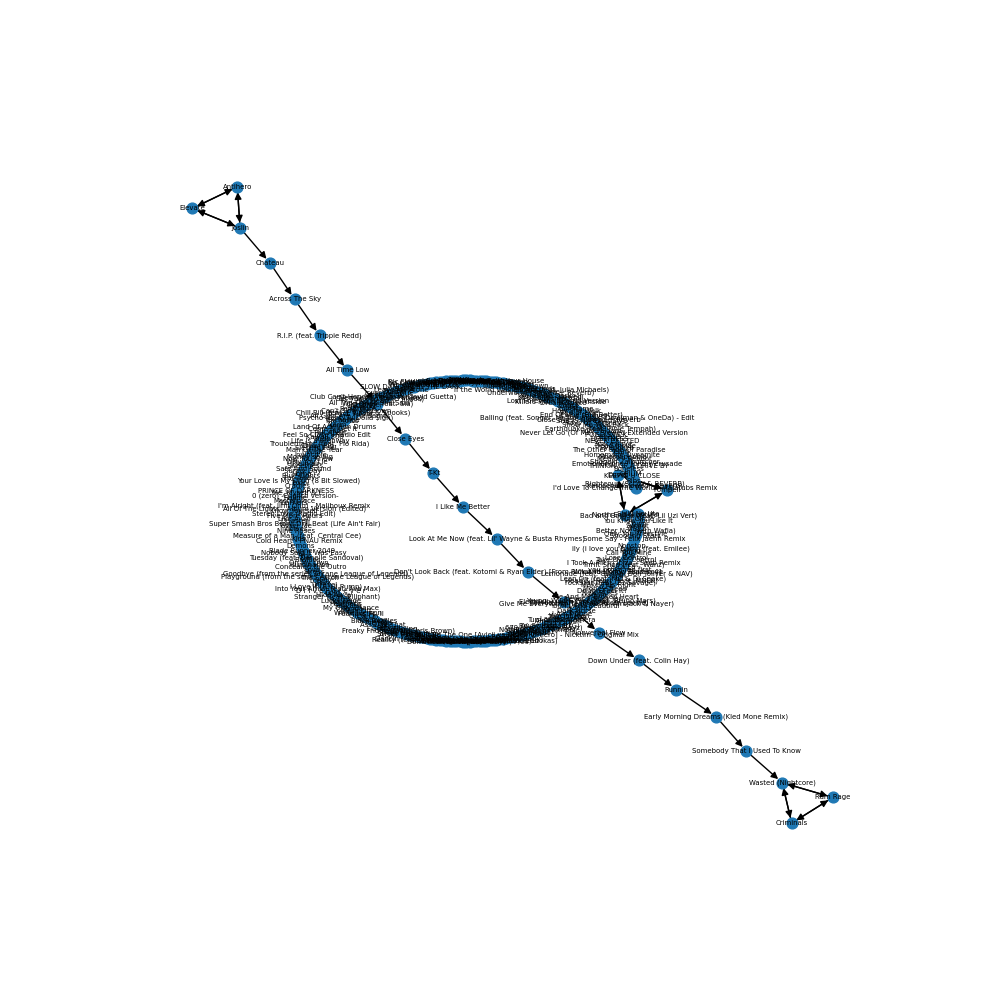
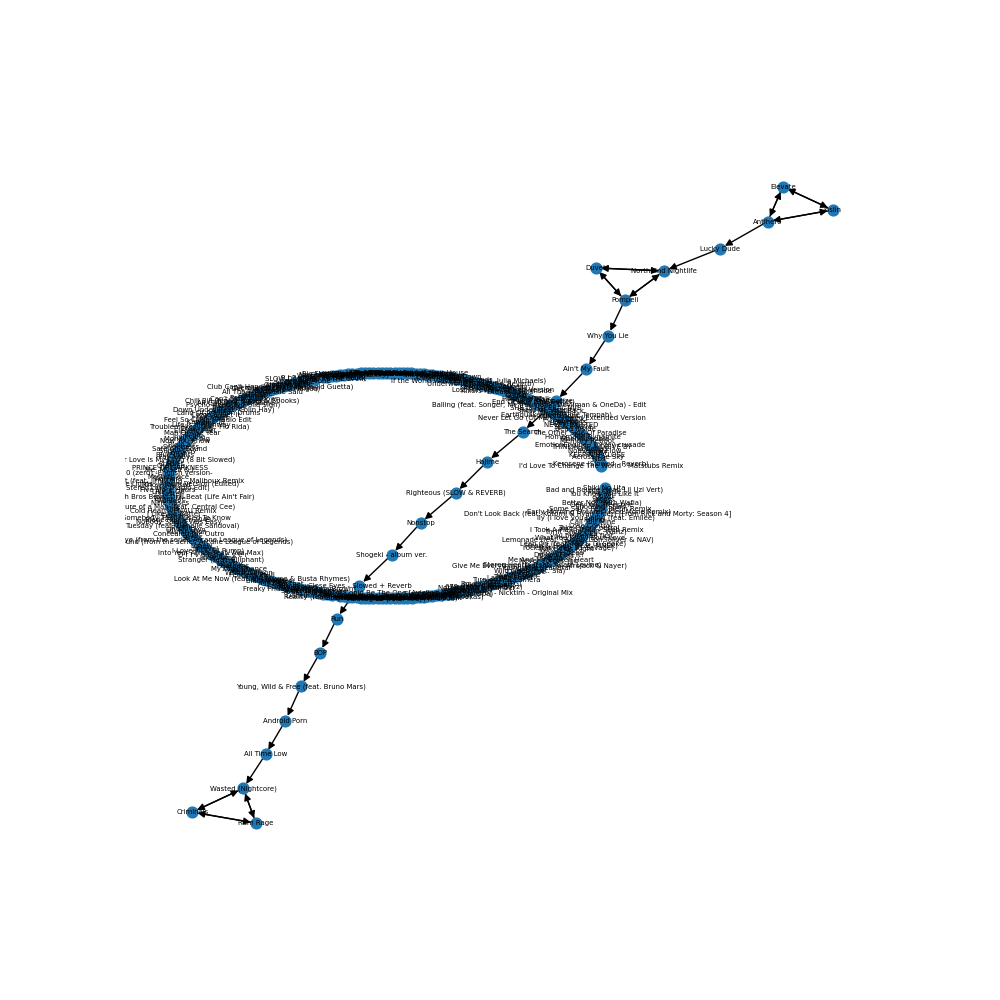
Setting the model and image into firebase

diff --git a/mood-shifter-backend/index.js b/mood-shifter-backend/index.js
@@ -71,9 +71,19 @@ app.post('/getConfigPlaylist', async (req, res) => {
       method: "POST"
     })
     let response = await modelResp.json();
-    console.log("MODEL RESP, MOOD2MOOD: ", response.queue)
-    console.log("MODEL RESP, model: ", response.model)
-    res.send(response)
+    // console.log("MODEL RESP, MOOD2MOOD: ", response.queue)
+    // console.log("MODEL RESP, model: ", response.model)
+
+    // Set the model and the image to firebase now
+    await setDoc(docRef, {
+      "model": response.model,
+      "graphImage": response.graphImage
+    }, { merge: true })
+    .then(() => {
+      console.log("Firebase now has the latest model as well as the graph image.")
+    })
+    
+    res.send(response.queue)
   }
 })
 

diff --git a/mood-shifter-model/network.py b/mood-shifter-model/network.py
@@ -4,6 +4,8 @@ import networkx as nx
 from networkx.drawing.nx_agraph import graphviz_layout, to_agraph
 
 import random
+import io
+import base64
 
 mpl.use('agg')
 
@@ -95,11 +97,11 @@ def mood2mood(graph, fromMood, toMood, duration):
     addNewEdgeBetween(G, generatedQueue[-1]["songID"], toNodes[0]["songID"])
     print("from:", generatedQueue[-1]["songID"], "to:", toNodes[0]["songID"])
     generatedQueue += toNodes
-    saveGraphImage(G)
+    imageB64 = saveGraphImage(G)
     # print(generatedQueue)
     # print(len(generatedQueue))
 
-    return {"queue": generatedQueue, "model": storeGraphJSON(G)}
+    return {"queue": generatedQueue, "model": storeGraphJSON(G), "graphImage": imageB64}
 
 def nodeCrawl(G, currentNode, times, toNodes, queue=None):
 
@@ -235,7 +237,12 @@ def saveGraphImage(G):
     nx.draw(G,with_labels = True, labels=labels, pos=pos, font_weight='normal',node_size=60,font_size=5)
     # plt.show(block=False)
     # plt.tight_layout()
-    plt.savefig("Graph.png", format="PNG")
+    # plt.savefig("Graph.png", format="PNG")
+    my_stringIObytes = io.BytesIO()
+    plt.savefig(my_stringIObytes, format='jpg')
+    my_stringIObytes.seek(0)
+    my_base64_jpgData = base64.b64encode(my_stringIObytes.read()).decode()
+    return my_base64_jpgData
 
 def storeGraphJSON(graph):
     return nx.node_link_data(graph)
